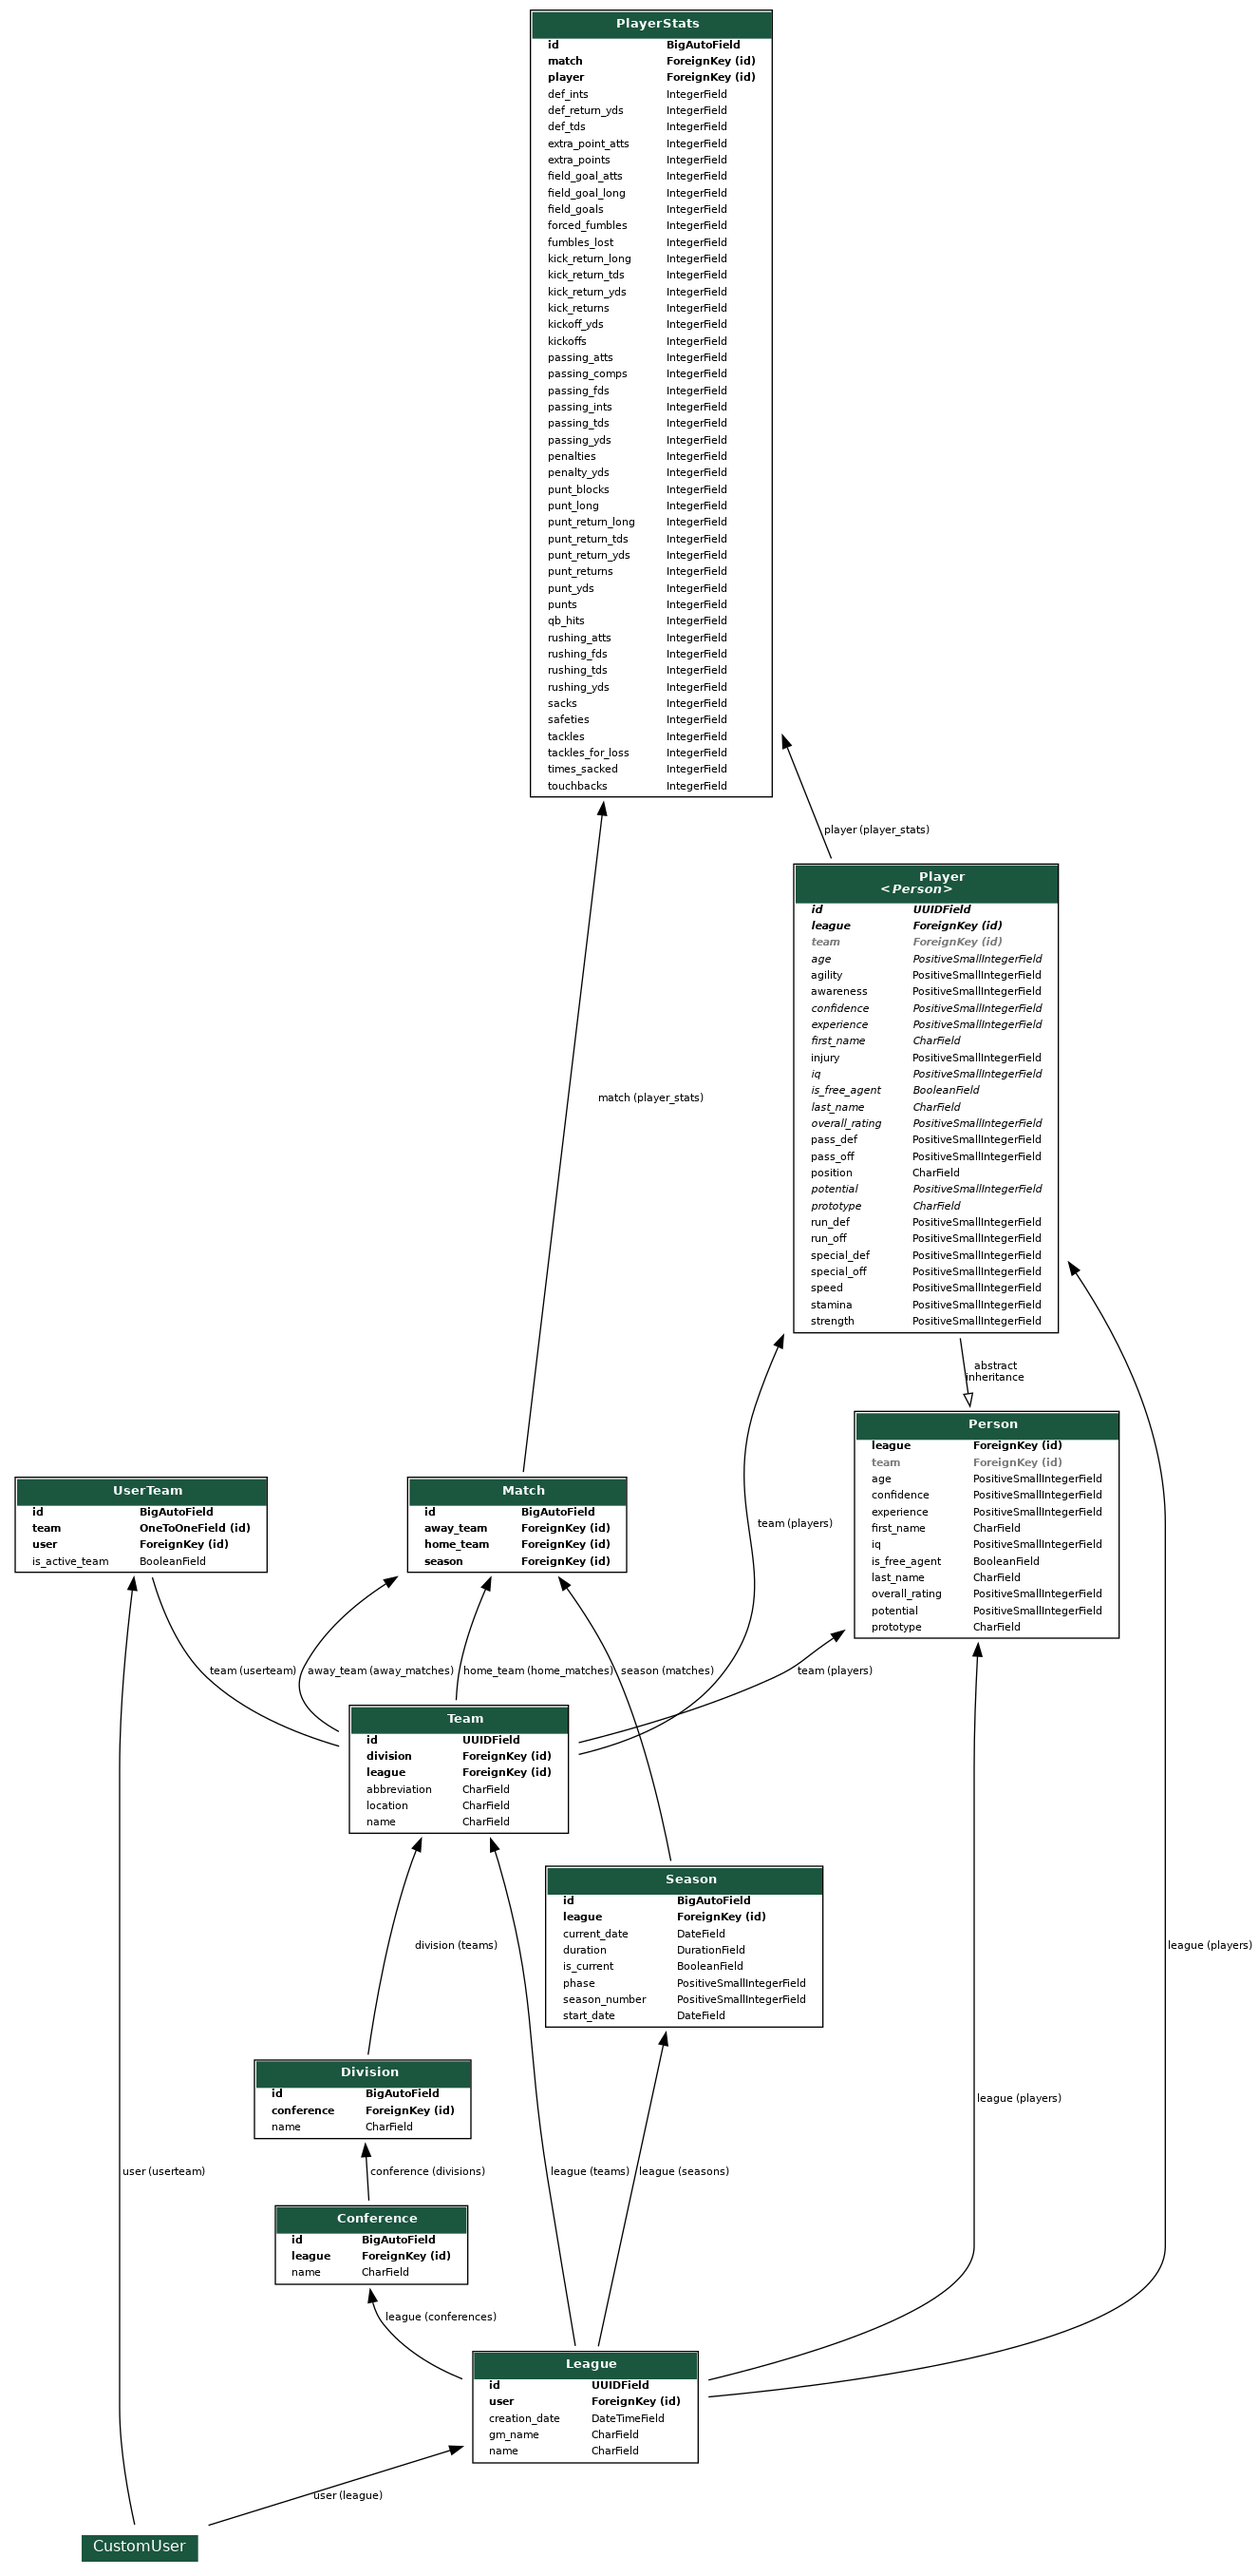
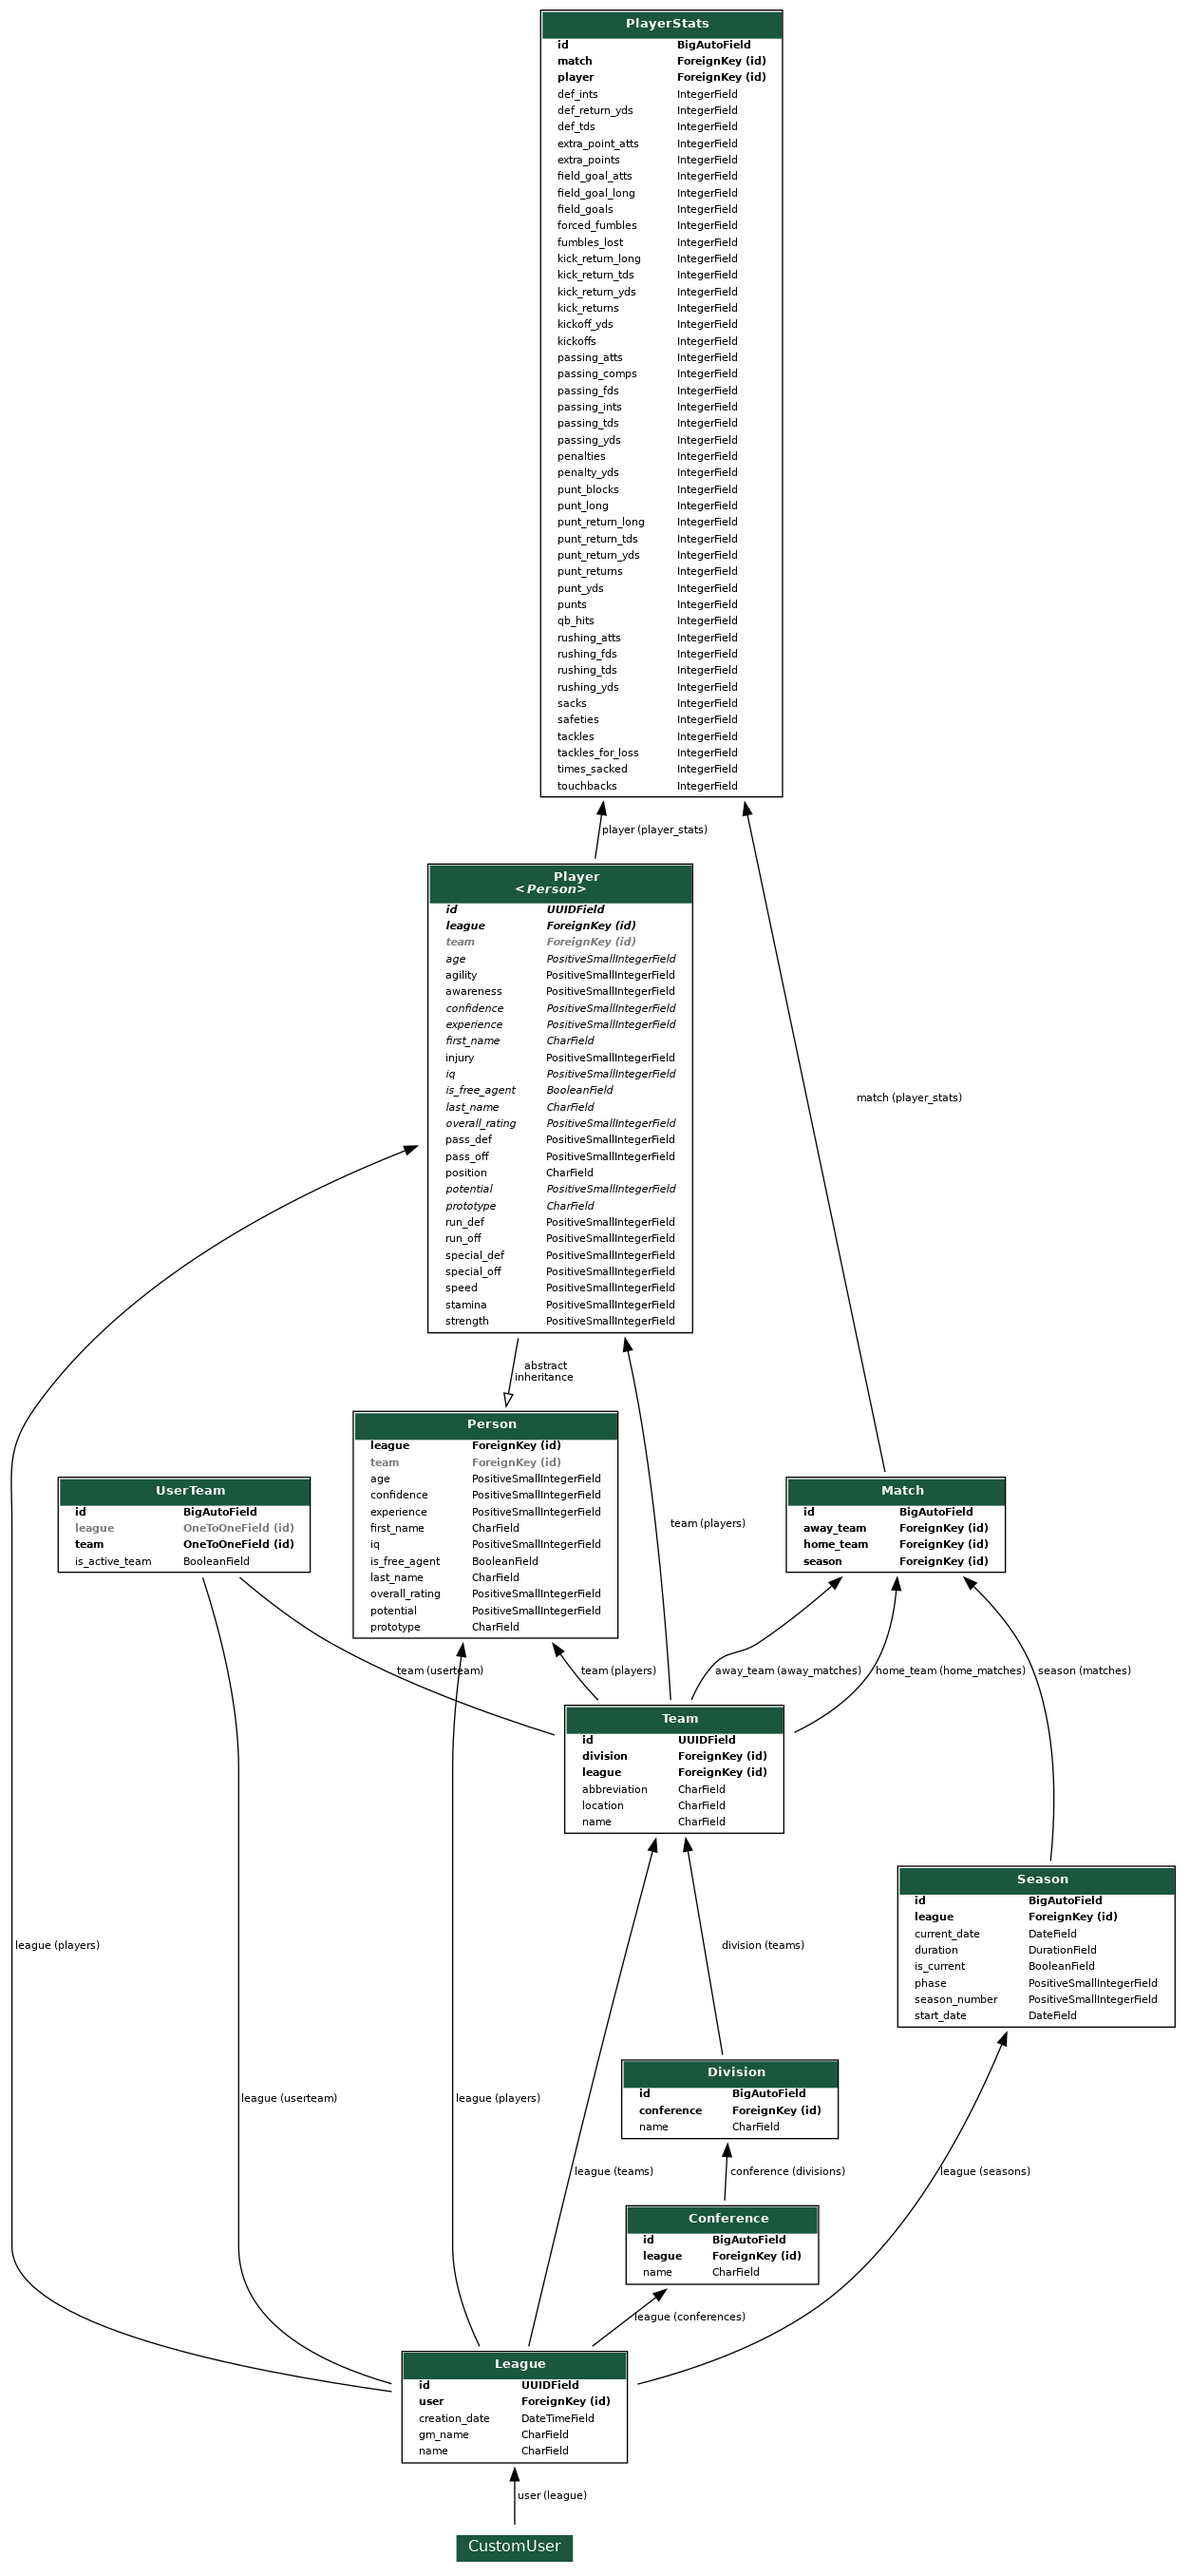
Additional changes to models and UserTeam model, TeamList and Detail views

diff --git a/templates/leagues/team/team_list.html b/templates/leagues/team/team_list.html
@@ -53,27 +53,32 @@
   <hr>
   <div class="container">
     {% if user.is_authenticated and not user_has_team %}
-    <div class="team-list-welcome">
-      <h3 class="mt-4">Welcome to your new league, {{ user }}.</h3>
-      <p class="mt-3">Start by reviewing the rosters, then pick which team you want to sign onto as GM. Once you choose a team, you're locked in until your contract expires so choose wisely!</p>
-    </div>
-    <form action="{% url 'update_user_team' league.pk %}" method="post">
-      {% csrf_token %}
-      <div class="form-group">
-        <select class="form-select mb-3" id="team-select" name="teams">
-          <option disabled selected value> -- Select your team -- </option>
-          {% for team in team_list %}
-          <option value="{{ team.pk }}">{{ team.location }} {{ team.name }}</option>
-          {% endfor %}
-        </select>
-        <button type="submit" class="btn btn-primary mb-3">Submit</button>
+      <div class="team-list-welcome">
+        <h3 class="mt-4">Welcome to your new league, {{ user }}.</h3>
+        <p class="mt-3">Start by reviewing the rosters, then pick which team you want to sign onto as GM. Once you choose a team, you're locked in until your contract expires so choose wisely!</p>
       </div>
-    </form>
+      <form action="{% url 'update_user_team' league.pk %}" method="post">
+        {% csrf_token %}
+        <div class="form-group">
+          <select class="form-select mb-3" id="team-select" name="teams">
+            <option disabled selected value> -- Select your team -- </option>
+            {% for team in team_list %}
+            <option value="{{ team.pk }}">{{ team.location }} {{ team.name }}</option>
+            {% endfor %}
+          </select>
+          <button type="submit" class="btn btn-primary mb-3">Submit</button>
+        </div>
+      </form>
     {% endif %}
     <div class="row">
       {% for team in team_list %}
       <div class="col-4 m-3 team-list-wrapper">
-        <h3 class="team-list-name"><a href="{% url 'team_detail' league.pk team.pk %}">{{ team.location }} {{ team.name }}</a></h3>
+        <h3 class="team-list-name">
+          <a href="{% url 'team_detail' league.pk team.pk %}">{{ team.location }} {{ team.name }}</a>
+          {% if team.userteam %}
+            <span class="my-team-tag">{{ user }}</span>
+          {% endif %}
+        </h3>
         <p>Overall: {{ team.calc_team_overall }}</p>
         <a href="{% url 'team_roster' league.pk team.pk %}">View Roster</a>
       </div> 

diff --git a/templates/leagues/team/team_detail.html b/templates/leagues/team/team_detail.html
@@ -63,11 +63,13 @@
 
 {% block content %}
   <div>
-    <h2>{{ team.location }} {{ team.name }} ({{ team.abbreviation }}) &middot; {{ team.league.name }}</h2>
-    <a href="{% url 'team_list' league.pk %}">&larr; Return to Teams</a>
-    {% if team.userteam %}
+    <h2>
+      {{ team.location }} {{ team.name }} ({{ team.abbreviation }}) &middot; {{ team.league.name }}
+      {% if team.userteam %}
         <span class="my-team-tag">{{ user }}</span>
-    {% endif %}
+      {% endif %}
+    </h2>
+    <a href="{% url 'team_list' league.pk %}">&larr; Return to Teams</a>
     <hr>
     <div>
       {% if team.userteam %}

diff --git a/static/css/base.css b/static/css/base.css
@@ -37,4 +37,6 @@
     border-radius: 4px;
     background-color: green;
     color: white;
+    margin-left: 15px;
+    position: absolute;
 }

diff --git a/leagues/views.py b/leagues/views.py
@@ -94,14 +94,12 @@ class TeamListView(LeagueOwnerCanViewTeamsMixin, ListView):
         league_uuid = self.kwargs.get('league')
         league = League.objects.get(id=league_uuid)
         context['league'] = league
-        for team in league.teams.all():
-            try:
-                UserTeam.objects.get(user=self.request.user, team=team)
-            except (KeyError, UserTeam.DoesNotExist):
-                context['user_has_team'] = False
-                break
-            else:
-                context['user_has_team'] = True
+        try:
+            UserTeam.objects.get(league=league)
+        except (KeyError, UserTeam.DoesNotExist):
+            context['user_has_team'] = False
+        else:
+            context['user_has_team'] = True
             
         return context
 
@@ -116,8 +114,9 @@ class TeamDetailView(LeagueOwnerCanViewTeamsMixin, DetailView):
         # Add context data from URL kwargs for the teams' league
         context = super(TeamDetailView, self).get_context_data(**kwargs)
         league_uuid = self.kwargs.get('league')
-        context['league'] = League.objects.get(id=league_uuid)
-        context['user_team'] = UserTeam.objects.get(user=self.request.user, team=self.object)
+        league = League.objects.get(id=league_uuid)
+        context['league'] = league
+        context['user_team'] = UserTeam.objects.get(league=league, team=self.object)
         return context
 
     
@@ -150,5 +149,5 @@ def update_user_team(request, league):
                 'error_message': "You didn't select a team.",
             })
         else:
-            UserTeam.objects.create(user=request.user, team=selected_team)
+            UserTeam.objects.create(league=league, team=selected_team)
             return HttpResponseRedirect(reverse('team_detail', args=[league.id, selected_team.id]))

diff --git a/leagues/migrations/0018_auto_20210824_2108.py b/leagues/migrations/0018_auto_20210824_2108.py
@@ -1,0 +1,23 @@
+# Generated by Django 3.2.6 on 2021-08-25 01:08
+
+from django.db import migrations, models
+import django.db.models.deletion
+
+
+class Migration(migrations.Migration):
+
+    dependencies = [
+        ('leagues', '0017_alter_userteam_team'),
+    ]
+
+    operations = [
+        migrations.RemoveField(
+            model_name='userteam',
+            name='user',
+        ),
+        migrations.AddField(
+            model_name='userteam',
+            name='league',
+            field=models.OneToOneField(blank=True, null=True, on_delete=django.db.models.deletion.CASCADE, to='leagues.league'),
+        ),
+    ]

diff --git a/leagues/admin.py b/leagues/admin.py
@@ -1,7 +1,7 @@
 from django.contrib import admin
 
 from .models import (
-    League, Conference, Division,
+    League, Conference, Division, UserTeam,
     Team, Player, Season, Match, PlayerStats
 )
 
@@ -29,3 +29,4 @@ admin.site.register(Player, PlayerAdmin)
 admin.site.register(Season)
 admin.site.register(Match)
 admin.site.register(PlayerStats)
+admin.site.register(UserTeam)

diff --git a/leagues/models.py b/leagues/models.py
@@ -157,9 +157,9 @@ class Team(models.Model):
 
 
 class UserTeam(models.Model):
-    user = models.ForeignKey(
-        get_user_model(),
-        on_delete=models.CASCADE
+    league = models.OneToOneField(
+        League, on_delete=models.CASCADE,
+        blank=True, null=True
     )
     team = models.OneToOneField(
         Team, on_delete=models.CASCADE
